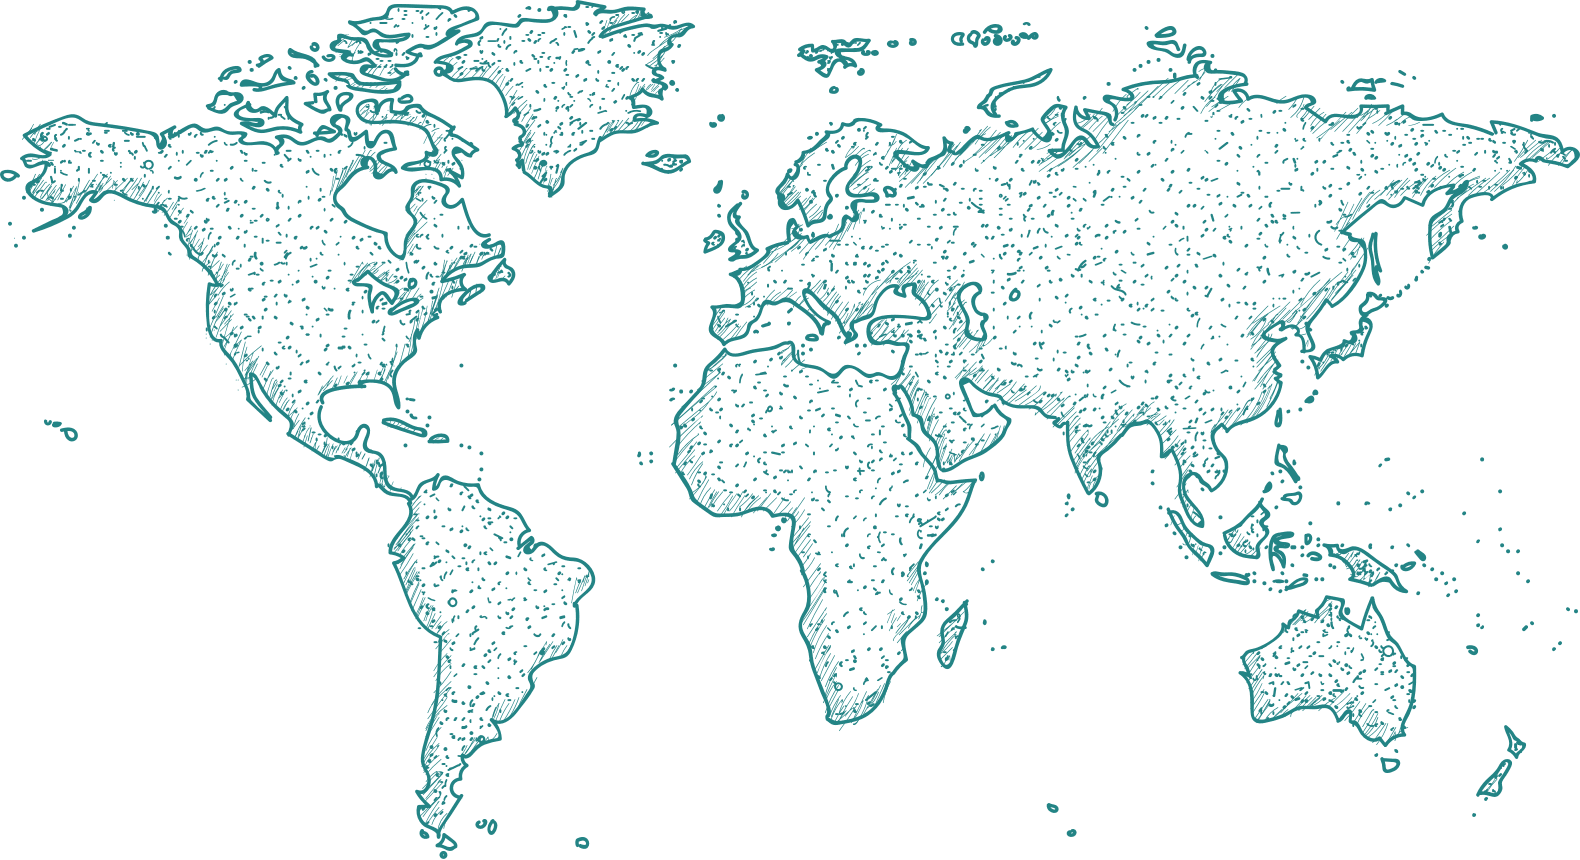
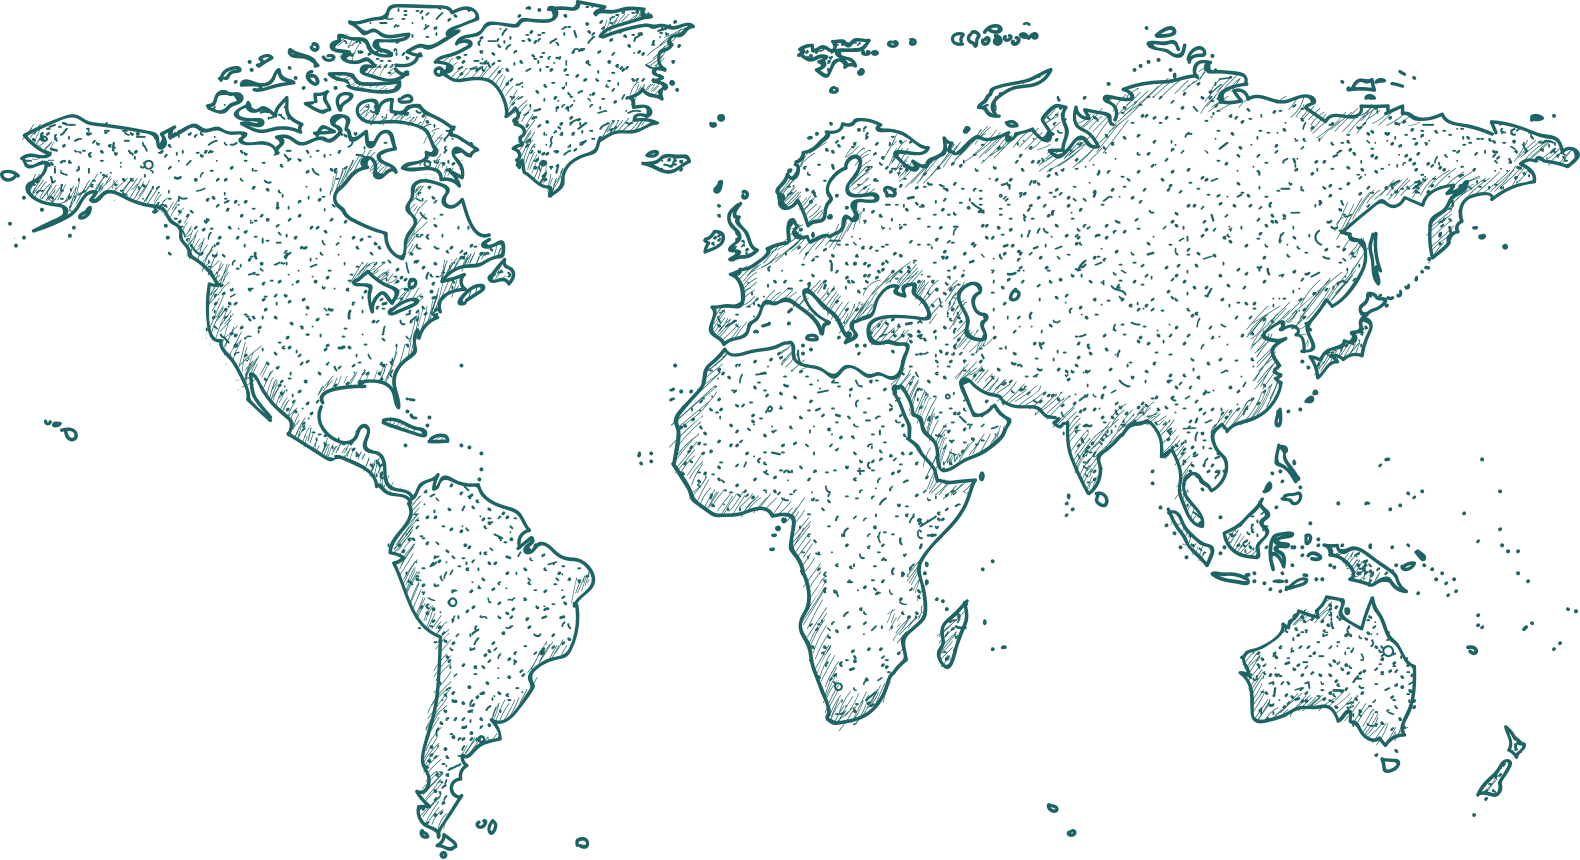
reduce cyan tint from backround image

diff --git a/style.css b/style.css
@@ -19,7 +19,7 @@ body {
     transform: translate(-50%, -50%);
     width: 80%;
     height: 80%;
-    background-image: url('./assets/background-image.png');
+    background-image: url('./assets/Untitled.png');
     background-repeat: no-repeat;
     background-size: contain;
     background-position: center;
